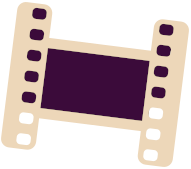
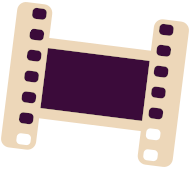
new film - footloose

Changed region(s): [[0.7592, 0.6213, 0.8639, 0.7101], [0.0785, 0.6509, 0.1832, 0.7396], [0.8901, 0.2959, 0.9162, 0.3254]]

diff --git a/index.html b/index.html
@@ -15,7 +15,7 @@
 <body>
 
     <div id="header">
-        <img src="Assets/film_icon.png" style="width: 90px;object-fit: fill; height: 70px; margin-top: 11px;">
+        <img src="Assets/film_icon.png" style="width: 90px;object-fit: fill; height: 70px; margin-top: 4px;">
         <a href="tv.html"><h1> T.v. </h1></a>
         <a href="games.html"><h1> Games </h1></a>
         <a href="books.html"><h1> Books </h1></a>
@@ -24,6 +24,18 @@
     </div>
     
     <div class="grid">
+
+        <div class="cell" onclick="toggleText('f8_base','f8_text');">
+            <img src="Movies/footloose_1984.jpg">
+            <div id="f8_base" class="description_box"></div>
+            <p id="f8_text">
+                Footloose <br> 1984 <br><br>
+                Is this the most 80s film? A big city boy newly arrived in a small town 
+                fights against restrictive laws around dancing. It has a surprising focus on 
+                grass roots activism, a generation fighting for themselves, and takes the 
+                time to explore inter-generational conflict.
+            </p>
+        </div>
 
         <div class="cell" onclick="toggleText('f7_base','f7_text');">
             <img src="Movies/theGirlWithTheDragonTattoo.jpg">
@@ -117,7 +129,10 @@
         <div class="test_cell"></div>
         <div class="test_cell"></div>
         <div class="test_cell"></div>
-        <div class="test_cell"></div>
+
+        <div">
+            <!-- spacer -->
+        </div>
 
     </div>
 

diff --git a/books.html b/books.html
@@ -69,6 +69,10 @@
         <div class="test_cell"></div>
         <div class="test_cell"></div>
 
+        <div">
+            <!-- spacer -->
+        </div>
+
     </div>
 
 </body>

diff --git a/games.html b/games.html
@@ -74,6 +74,10 @@
         <div class="test_cell"></div>
         <div class="test_cell"></div>
 
+        <div">
+            <!-- spacer -->
+        </div>
+
     </div>
 
 </body>

diff --git a/queer.html b/queer.html
@@ -139,6 +139,10 @@
         <div class="test_cell"></div>
         <div class="test_cell"></div>
 
+        <div">
+            <!-- spacer -->
+        </div>
+
     </div>
 
 </body>

diff --git a/tv.html b/tv.html
@@ -85,6 +85,10 @@
         <div class="test_cell"></div>
         <div class="test_cell"></div>
 
+        <div">
+            <!-- spacer -->
+        </div>
+
     </div>
 
 </body>